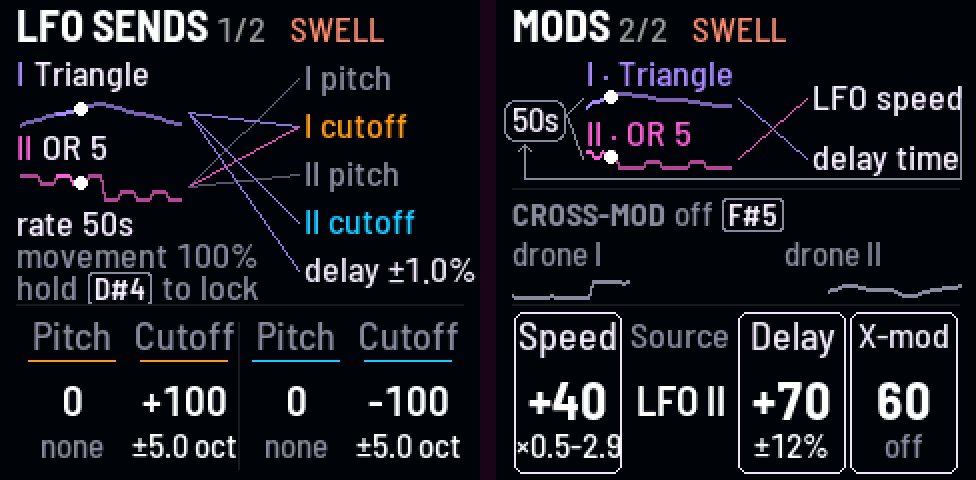
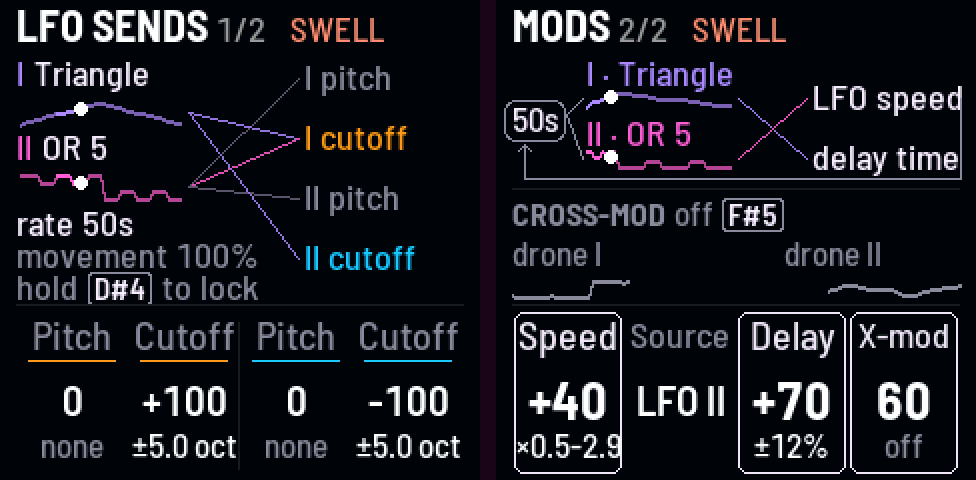
LFO sends: the drones' four sends only, one a knob; the delay's send lives on Mods with its knob

Changed region(s): [[0.1844, 0.2188, 0.4918, 0.5938]]

diff --git a/firmware/src/app/look.c b/firmware/src/app/look.c
@@ -1200,7 +1200,7 @@ static int lk_wave_on(int route, int w)        /* a route (DR_LFO_*) takes wave 
 
 /* -------------------------------------------------- LFO sends' picture --- */
 /* left, LFO I and II, one cycle each in its tint, one dot running along both (one clock); the rate under them, the
- * Movement when it isn't 100 % and the Swell lock in words. Right, five rows, each its slider, linked from the waves
+ * Movement when it isn't 100 % and the Swell lock in words. Right, the drones' four sends, linked from the waves
  * its key picks (both: two links); a row at 0, or fed only by an Off wave, gray with its link (the spec, 2026-10-31) */
 static void lk_pic_lfo(void)
 {
@@ -1234,31 +1234,16 @@ static void lk_pic_lfo(void)
     lk_ktext(8, tb + lh * 2, &LK_F_SMALL, !lock ? "hold [D#4] to lock" : proj.par[P_PULSE] ? "restarts with Swell"
                                                                                    : "lock waits for Swell",
              lock ? LK_CORAL : LK_LABEL);      /* unlocked: how to lock it, gray */
-    for (d = 0; d < 5; d++) {                  /* the rows: I pitch, I cutoff, II pitch, II cutoff, delay */
+    for (d = 0; d < 4; d++) {                  /* the rows: I pitch, I cutoff, II pitch, II cutoff, each over its knob;
+                                                * the delay is Mods' (its knob there; Evan, 2026-11-03) */
         const int g = d / 2, osc = d % 2 == 0;
-        const int route = d < 4 ? gpar(g, osc ? GP_OLFO : GP_FLFO) : proj.par[P_DLY_LFO];
-        const int depth = d < 4 ? gpar(g, osc ? GP_OLFO_DEPTH : GP_FLFO_DEPTH) : proj.par[P_DLY_LFO_DEPTH];
+        const int route = gpar(g, osc ? GP_OLFO : GP_FLFO), depth = gpar(g, osc ? GP_OLFO_DEPTH : GP_FLFO_DEPTH);
         const int heard = depth && proj.par[P_MOVE] && (lk_wave_on(route, 0) || lk_wave_on(route, 1));
-        const int32_t ny = 2 + d * 24, sy = ny + (int32_t)LK_F_SMALL.h / 2, sx = 152;   /* the row's middle */
-        const uint16_t col = d < 4 ? LK_DRONE[g] : LK_NEUTRAL;
-        if (d < 4)
-            scopy(scopy(t, g ? "II " : "I "), osc ? (gpar(g, GP_OLFO_DEST) == DR_TO_XWAVE ? "X-Wave" : "pitch")
-                                                  : (gpar(g, GP_FLFO_DEST) == DR_TO_RESO ? "reso" : "cutoff"));
-        else
-            scopy(t, "delay");
-        {   /* no sliders: the knobs' values say it (Evan, 2026-11-02); the delay's knob is on Mods, so its swing here */
-            int32_t x = cv_text(sx, ny, &LK_F_SMALL, t, heard ? col : LK_LABEL);
-            if (d == 4) {
-                char sw[12];
-                if (depth) {                   /* its swing; at 0, where its knob is (both don't fit) */
-                    const float dv = (float)depth * 0.01f;
-                    lk_swing(sw, dv * dv * (float)proj.par[P_MOVE] * 0.02f * 25.0f, "%");
-                    cv_text(x + 4, ny, &LK_F_SMALL, sw, heard ? col : LK_LABEL);
-                } else {
-                    cv_text(x + 4, ny, &LK_F_SMALL, "Mods", LK_LABEL);
-                }
-            }
-        }
+        const int32_t ny = 2 + d * 30, sy = ny + (int32_t)LK_F_SMALL.h / 2, sx = 152;   /* the row's middle */
+        scopy(scopy(t, g ? "II " : "I "), osc ? (gpar(g, GP_OLFO_DEST) == DR_TO_XWAVE ? "X-Wave" : "pitch")
+                                              : (gpar(g, GP_FLFO_DEST) == DR_TO_RESO ? "reso" : "cutoff"));
+        cv_text(sx, ny, &LK_F_SMALL, t, heard ? LK_DRONE[g] : LK_LABEL);   /* no sliders: the knobs say it (Evan,
+                                                                            * 2026-11-02) */
         for (w = 0; w < 2; w++)                /* a link from each wave the route takes, in its tint */
             if (route == w + 1 || route == DR_LFO_BOTH)
                 cv_line(94, wy[w], sx - 3, sy, heard && lk_wave_on(route, w) ? lk_mix(0x07060Bu, LK_LFO_TINT[w], 0.85f)

diff --git a/README.md b/README.md
@@ -352,9 +352,9 @@ pink specks are as many as Color says.
 
 - **The sends** and **speed mod** are centered: the middle is none. Each send is named for what it moves: Pitch, or
   X-Wave with black key 2 / 7 on the LFO pages; Cutoff, or Reso with key 4 / 9. Under each value, how far it swings
-  in what you hear ("±12c", "±3.6 oct"), with the Movement. The picture shows LFO I and II, the five things they can
-  move, and a line from each LFO that reaches it (gray: at 0, or only from an LFO that's off; the delay's row says how
-  far Delay mod, on Mods, swings it); under the waves the rate, the Movement and the Swell lock (D#4 locks it).
+  in what you hear ("±12c", "±3.6 oct"), with the Movement. The picture shows LFO I and II, the drones' four sends
+  (in the knobs' order), and a line from each LFO that reaches one (gray: at 0, or only from an LFO that's off); the
+  delay's send is on Mods, with its knob; under the waves the rate, the Movement and the Swell lock (D#4 locks it).
 - **Mods**, the LFO moving other things, and cross-mod's amount:
   - **Speed mod** ("Speed" on the knob): the LFO speeds up and slows down on one of its own waves (up to 3 octaves either way).
   - **Source**: which LFO does that (I, II or both).
